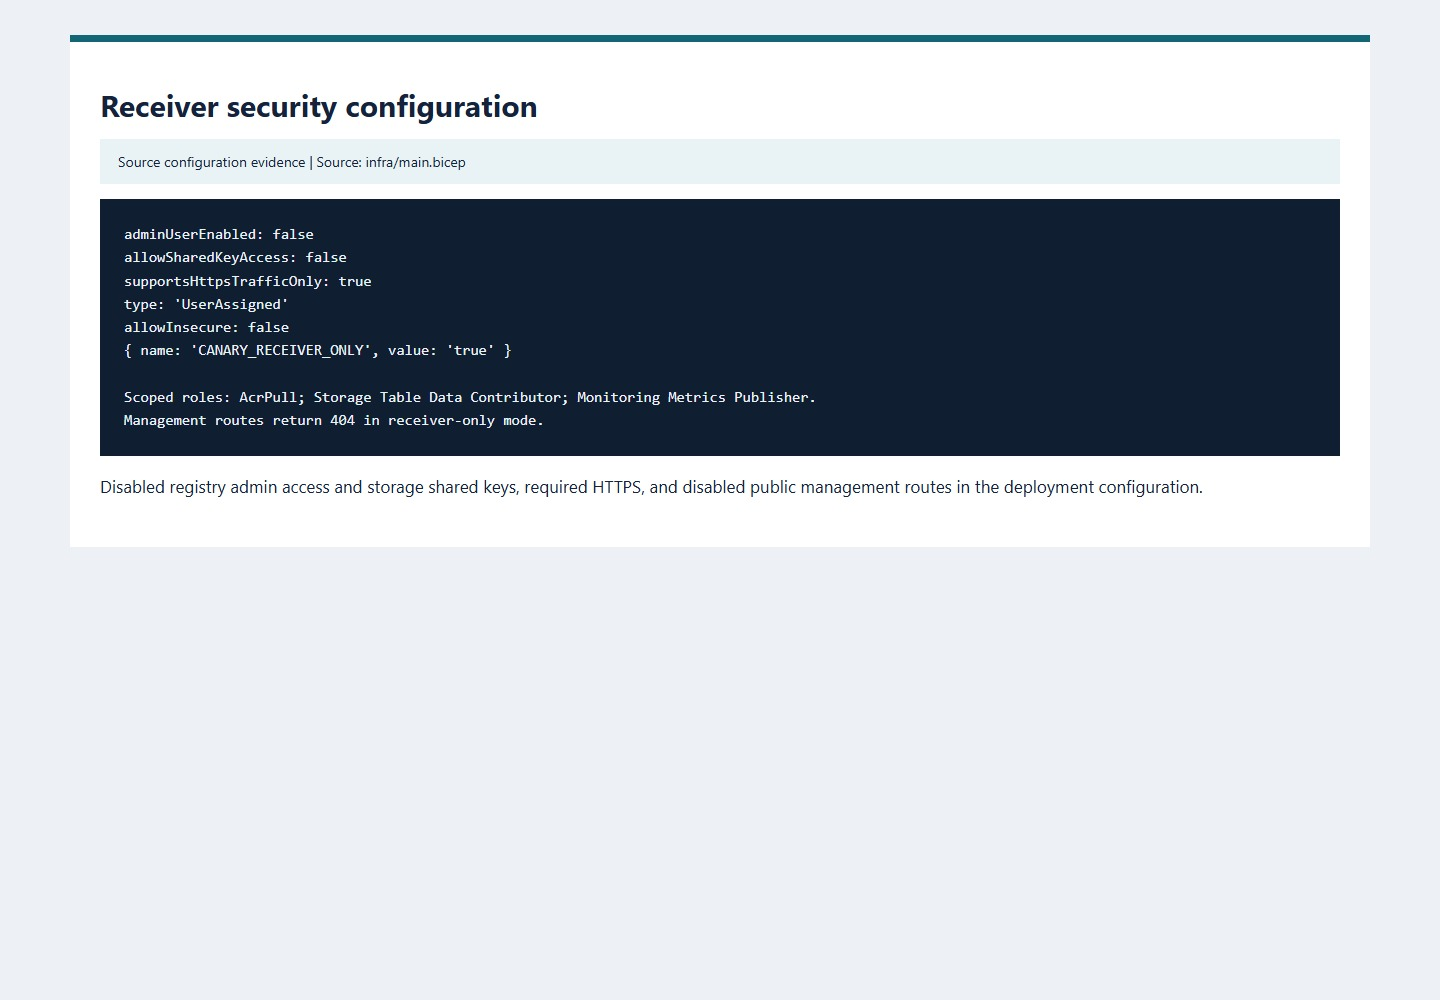
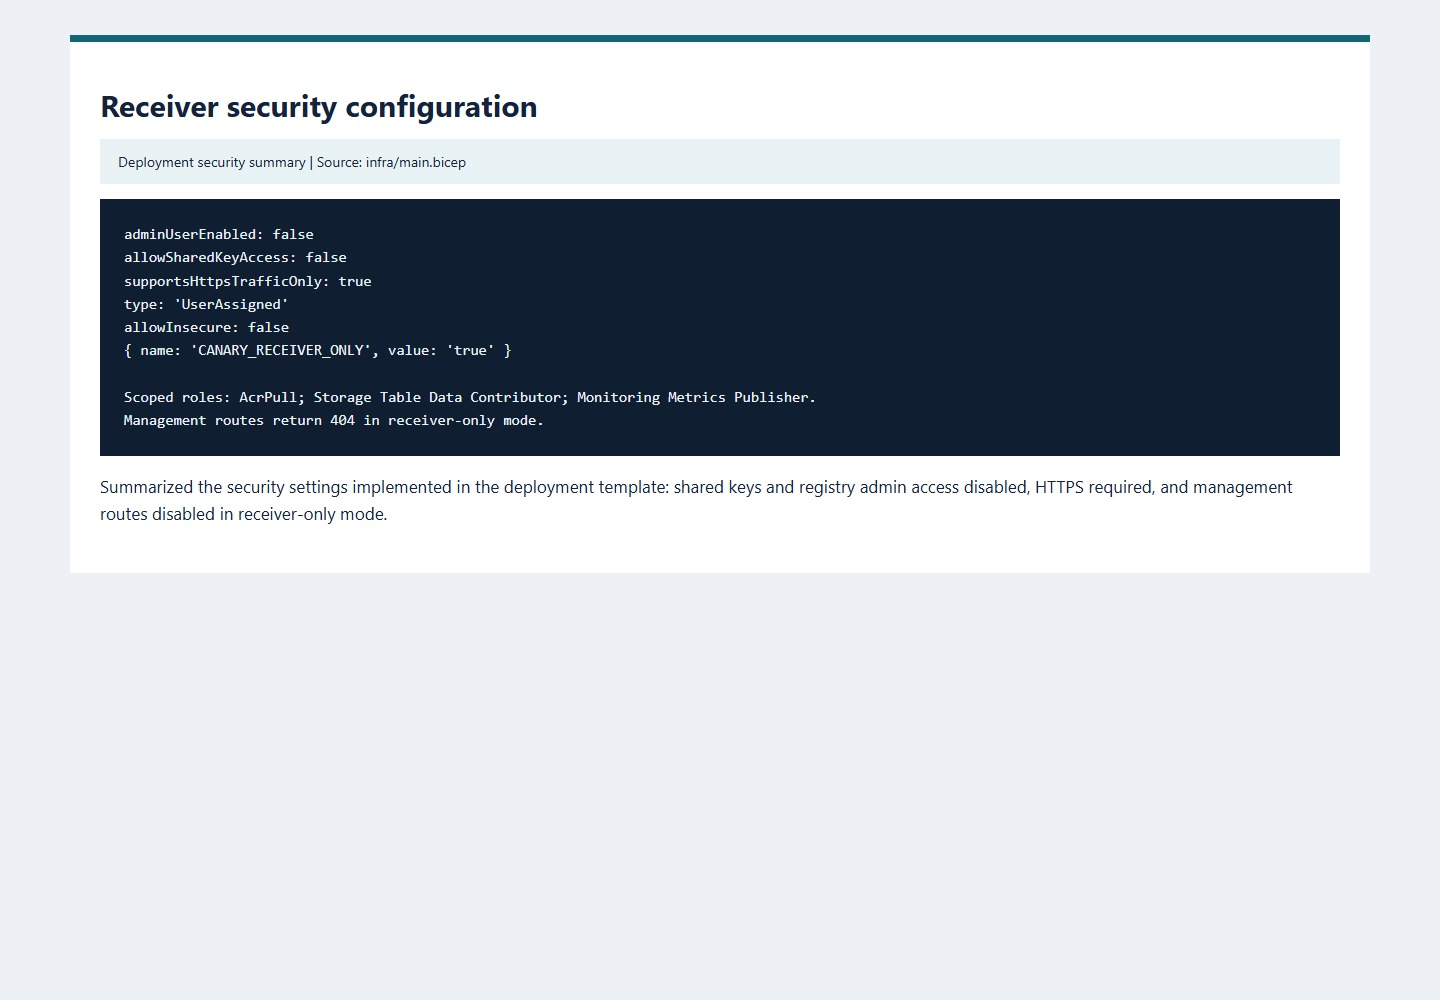
Clarify deployment security evidence source

Changed region(s): [[0.0625, 0.465, 0.9062, 0.527], [0.0938, 0.155, 0.2188, 0.186], [0.25, 0.155, 0.3125, 0.186]]

diff --git a/docs/evidence/public/index.html b/docs/evidence/public/index.html
@@ -1,1 +1,1 @@
-<!doctype html><html lang="en"><meta charset="utf-8"><meta name="viewport" content="width=device-width,initial-scale=1"><title>Honey Token - screenshot walkthrough</title><style>body{margin:0;background:#edf1f5;color:#14233b;font:17px/1.55 Segoe UI,Arial}main{max-width:1240px;margin:35px auto;padding:30px;background:white;border-top:7px solid #126675}h1{font-size:30px;margin:10px 0}.meta{padding:12px 18px;background:#e9f2f4;font-size:14px}pre{white-space:pre-wrap;overflow-wrap:anywhere;font:15px/1.55 Consolas,monospace;background:#101e32;color:#ebf3fa;padding:24px}a{color:#126675}img{max-width:100%;height:auto}article{margin:36px 0;padding-top:20px;border-top:1px solid #ccd5dc}</style><main><h1>Honey Token</h1><p>Project walkthrough recorded on 7 September 2026, covering setup, deployment, document retrieval, event triage, Sentinel ingestion, and tests. Word and GitHub images are application captures; Azure images use saved deployment responses and query results.</p><p>Account details, email addresses, source IPs, tenant/subscription identifiers, callback tokens, and resource endpoints are redacted or excluded. Raw records remain outside this package.</p><h2>Project walkthrough</h2><ol><li><a href="#step01">Purpose and architecture</a></li><li><a href="#step02">Starting state and baseline</a></li><li><a href="#step03">Infrastructure deployment</a></li><li><a href="#step04">Receiver security configuration</a></li><li><a href="#step05">Deployed receiver health</a></li><li><a href="#step06">Word renders the synthetic decoy</a></li><li><a href="#step07">Word callback and triage</a></li><li><a href="#step08">Persisted events and delivery outcomes</a></li><li><a href="#step09">Log Analytics ingestion</a></li><li><a href="#step10">Sentinel analytic rule</a></li><li><a href="#step11">Sentinel incident</a></li><li><a href="#step12">GitHub Actions test run</a></li><li><a href="#step13">Local regression and SMTP delivery</a></li><li><a href="#step14">Secret scanning</a></li><li><a href="#step15">Limitations and teardown status</a></li></ol><article id="step01"><h2>01. Purpose and architecture</h2><div class="meta">Design summary | Source: ARCHITECTURE.md</div><p>Extended the local document-token receiver with Azure Table Storage and Sentinel ingestion. Word and cloud callbacks were exercised separately.</p><a href="01-evidence.jpg"><img loading="lazy" src="01-evidence.jpg" alt="Purpose and architecture"></a></article><article id="step02"><h2>02. Starting state and baseline</h2><div class="meta">Archived record, captured 2026-09-07 | Source: 00-azure-start-state.json + docs/BASELINE.md</div><p>Recorded the local SQLite starting point and nine passing baseline tests before adding the Azure adapters.</p><a href="02-evidence.jpg"><img loading="lazy" src="02-evidence.jpg" alt="Starting state and baseline"></a></article><article id="step03"><h2>03. Infrastructure deployment</h2><div class="meta">Archived Azure deployment response | Source: 03-bicep-final-deployment.json</div><p>Deployed the Bicep resources successfully. Resource identifiers and endpoint values are omitted from the saved response.</p><a href="03-evidence.jpg"><img loading="lazy" src="03-evidence.jpg" alt="Infrastructure deployment"></a></article><article id="step04"><h2>04. Receiver security configuration</h2><div class="meta">Source configuration evidence | Source: infra/main.bicep</div><p>Disabled registry admin access and storage shared keys, required HTTPS, and disabled public management routes in the deployment configuration.</p><a href="04-evidence.jpg"><img loading="lazy" src="04-evidence.jpg" alt="Receiver security configuration"></a></article><article id="step05"><h2>05. Deployed receiver health</h2><div class="meta">Archived HTTP result | Source: 09-container-app-health.json</div><p>Requested the deployed health endpoint; it returned HTTP 200 with receiver-only mode and Azure Table Storage.</p><a href="05-evidence.jpg"><img loading="lazy" src="05-evidence.jpg" alt="Deployed receiver health"></a></article><article id="step06"><h2>06. Word renders the synthetic decoy</h2><div class="meta">Microsoft Word UI capture | Source: Word 16.0.20326.20132</div><p>Opened the generated synthetic document in Word. The local callback it produced is recorded in image 07.</p><a href="06-word-decoy.png"><img loading="lazy" src="06-word-decoy.png" alt="Word renders the synthetic decoy"></a></article><article id="step07"><h2>07. Word callback and triage</h2><div class="meta">Archived event from observed Word open | Source: word-viewer-result.json</div><p>Captured the Office User-Agent and high-severity event when Word requested the loopback pixel.</p><a href="07-evidence.jpg"><img loading="lazy" src="07-evidence.jpg" alt="Word callback and triage"></a></article><article id="step08"><h2>08. Persisted events and delivery outcomes</h2><div class="meta">Archived Azure Table query | Source: table-events-sanitized.json</div><p>Queried stored events and retained both successful delivery outcomes and the first failed ingestion attempt.</p><a href="08-evidence.jpg"><img loading="lazy" src="08-evidence.jpg" alt="Persisted events and delivery outcomes"></a></article><article id="step09"><h2>09. Log Analytics ingestion</h2><div class="meta">Archived CanaryHit_CL query | Source: log-analytics-latest.json</div><p>Queried four ingested records, including a scanner classification and a suppressed repeat notification.</p><a href="09-evidence.jpg"><img loading="lazy" src="09-evidence.jpg" alt="Log Analytics ingestion"></a></article><article id="step10"><h2>10. Sentinel analytic rule</h2><div class="meta">Archived rule configuration | Source: sentinel-rule.json</div><p>Deployed a five-minute Sentinel rule with a ten-minute lookback and incident creation enabled. The query selected all callback rows; scanner and repeat rows were included.</p><a href="10-evidence.jpg"><img loading="lazy" src="10-evidence.jpg" alt="Sentinel analytic rule"></a></article><article id="step11"><h2>11. Sentinel incident</h2><div class="meta">Archived Sentinel incident response | Source: sentinel-incidents.json</div><p>Recorded the resulting high-severity Sentinel incident. Account and resource identifiers are omitted.</p><a href="11-evidence.jpg"><img loading="lazy" src="11-evidence.jpg" alt="Sentinel incident"></a></article><article id="step12"><h2>12. GitHub Actions test run</h2><div class="meta">GitHub UI capture | Source: Job 101836165394 in Actions run 34152044446</div><p>The main-branch Actions test job completed successfully and recorded 16 passing tests.</p><a href="12-github-pytest-output.jpg"><img loading="lazy" src="12-github-pytest-output.jpg" alt="GitHub Actions test run"></a></article><article id="step13"><h2>13. Local regression and SMTP delivery</h2><div class="meta">Recorded test output | Source: tests/test_smtp_delivery.py + portfolio/pytest.txt</div><p>The integration test opened a real loopback SMTP connection, sent one DATA message after two callbacks, and confirmed two persisted events with sent/suppressed alert states. SMTP identities and callback tokens are redacted from the public record.</p><a href="13-evidence.jpg"><img loading="lazy" src="13-evidence.jpg" alt="Local regression and SMTP delivery"></a></article><article id="step14"><h2>14. Secret scanning</h2><div class="meta">Gitleaks output | Source: portfolio/gitleaks.txt</div><p>Scanned the tracked history with Gitleaks; the recorded scan found no secrets.</p><a href="14-evidence.jpg"><img loading="lazy" src="14-evidence.jpg" alt="Secret scanning"></a></article><article id="step15"><h2>15. Limitations and teardown status</h2><div class="meta">Operational notes | Source: LIMITATIONS.md + COST_AND_TEARDOWN.md</div><p>Recorded the resource state at the end of the run. The cleanup command and operational constraints are documented separately.</p><a href="15-evidence.jpg"><img loading="lazy" src="15-evidence.jpg" alt="Limitations and teardown status"></a></article></main></html>
+<!doctype html><html lang="en"><meta charset="utf-8"><meta name="viewport" content="width=device-width,initial-scale=1"><title>Honey Token - screenshot walkthrough</title><style>body{margin:0;background:#edf1f5;color:#14233b;font:17px/1.55 Segoe UI,Arial}main{max-width:1240px;margin:35px auto;padding:30px;background:white;border-top:7px solid #126675}h1{font-size:30px;margin:10px 0}.meta{padding:12px 18px;background:#e9f2f4;font-size:14px}pre{white-space:pre-wrap;overflow-wrap:anywhere;font:15px/1.55 Consolas,monospace;background:#101e32;color:#ebf3fa;padding:24px}a{color:#126675}img{max-width:100%;height:auto}article{margin:36px 0;padding-top:20px;border-top:1px solid #ccd5dc}</style><main><h1>Honey Token</h1><p>Project walkthrough recorded on 7 September 2026, covering setup, deployment, document retrieval, event triage, Sentinel ingestion, and tests. Word and GitHub images are application captures; Azure images use saved deployment responses and query results.</p><p>Account details, email addresses, source IPs, tenant/subscription identifiers, callback tokens, and resource endpoints are redacted or excluded. Raw records remain outside this package.</p><h2>Project walkthrough</h2><ol><li><a href="#step01">Purpose and architecture</a></li><li><a href="#step02">Starting state and baseline</a></li><li><a href="#step03">Infrastructure deployment</a></li><li><a href="#step04">Receiver security configuration</a></li><li><a href="#step05">Deployed receiver health</a></li><li><a href="#step06">Word renders the synthetic decoy</a></li><li><a href="#step07">Word callback and triage</a></li><li><a href="#step08">Persisted events and delivery outcomes</a></li><li><a href="#step09">Log Analytics ingestion</a></li><li><a href="#step10">Sentinel analytic rule</a></li><li><a href="#step11">Sentinel incident</a></li><li><a href="#step12">GitHub Actions test run</a></li><li><a href="#step13">Local regression and SMTP delivery</a></li><li><a href="#step14">Secret scanning</a></li><li><a href="#step15">Limitations and teardown status</a></li></ol><article id="step01"><h2>01. Purpose and architecture</h2><div class="meta">Design summary | Source: ARCHITECTURE.md</div><p>Extended the local document-token receiver with Azure Table Storage and Sentinel ingestion. Word and cloud callbacks were exercised separately.</p><a href="01-evidence.jpg"><img loading="lazy" src="01-evidence.jpg" alt="Purpose and architecture"></a></article><article id="step02"><h2>02. Starting state and baseline</h2><div class="meta">Archived record, captured 2026-09-07 | Source: 00-azure-start-state.json + docs/BASELINE.md</div><p>Recorded the local SQLite starting point and nine passing baseline tests before adding the Azure adapters.</p><a href="02-evidence.jpg"><img loading="lazy" src="02-evidence.jpg" alt="Starting state and baseline"></a></article><article id="step03"><h2>03. Infrastructure deployment</h2><div class="meta">Archived Azure deployment response | Source: 03-bicep-final-deployment.json</div><p>Deployed the Bicep resources successfully. Resource identifiers and endpoint values are omitted from the saved response.</p><a href="03-evidence.jpg"><img loading="lazy" src="03-evidence.jpg" alt="Infrastructure deployment"></a></article><article id="step04"><h2>04. Receiver security configuration</h2><div class="meta">Deployment security summary | Source: infra/main.bicep</div><p>Summarized the security settings implemented in the deployment template: shared keys and registry admin access disabled, HTTPS required, and management routes disabled in receiver-only mode.</p><a href="04-evidence.jpg"><img loading="lazy" src="04-evidence.jpg" alt="Receiver security configuration"></a></article><article id="step05"><h2>05. Deployed receiver health</h2><div class="meta">Archived HTTP result | Source: 09-container-app-health.json</div><p>Requested the deployed health endpoint; it returned HTTP 200 with receiver-only mode and Azure Table Storage.</p><a href="05-evidence.jpg"><img loading="lazy" src="05-evidence.jpg" alt="Deployed receiver health"></a></article><article id="step06"><h2>06. Word renders the synthetic decoy</h2><div class="meta">Microsoft Word UI capture | Source: Word 16.0.20326.20132</div><p>Opened the generated synthetic document in Word. The local callback it produced is recorded in image 07.</p><a href="06-word-decoy.png"><img loading="lazy" src="06-word-decoy.png" alt="Word renders the synthetic decoy"></a></article><article id="step07"><h2>07. Word callback and triage</h2><div class="meta">Archived event from observed Word open | Source: word-viewer-result.json</div><p>Captured the Office User-Agent and high-severity event when Word requested the loopback pixel.</p><a href="07-evidence.jpg"><img loading="lazy" src="07-evidence.jpg" alt="Word callback and triage"></a></article><article id="step08"><h2>08. Persisted events and delivery outcomes</h2><div class="meta">Archived Azure Table query | Source: table-events-sanitized.json</div><p>Queried stored events and retained both successful delivery outcomes and the first failed ingestion attempt.</p><a href="08-evidence.jpg"><img loading="lazy" src="08-evidence.jpg" alt="Persisted events and delivery outcomes"></a></article><article id="step09"><h2>09. Log Analytics ingestion</h2><div class="meta">Archived CanaryHit_CL query | Source: log-analytics-latest.json</div><p>Queried four ingested records, including a scanner classification and a suppressed repeat notification.</p><a href="09-evidence.jpg"><img loading="lazy" src="09-evidence.jpg" alt="Log Analytics ingestion"></a></article><article id="step10"><h2>10. Sentinel analytic rule</h2><div class="meta">Archived rule configuration | Source: sentinel-rule.json</div><p>Deployed a five-minute Sentinel rule with a ten-minute lookback and incident creation enabled. The query selected all callback rows; scanner and repeat rows were included.</p><a href="10-evidence.jpg"><img loading="lazy" src="10-evidence.jpg" alt="Sentinel analytic rule"></a></article><article id="step11"><h2>11. Sentinel incident</h2><div class="meta">Archived Sentinel incident response | Source: sentinel-incidents.json</div><p>Recorded the resulting high-severity Sentinel incident. Account and resource identifiers are omitted.</p><a href="11-evidence.jpg"><img loading="lazy" src="11-evidence.jpg" alt="Sentinel incident"></a></article><article id="step12"><h2>12. GitHub Actions test run</h2><div class="meta">GitHub UI capture | Source: Job 101836165394 in Actions run 34152044446</div><p>The main-branch Actions test job completed successfully and recorded 16 passing tests.</p><a href="12-github-pytest-output.jpg"><img loading="lazy" src="12-github-pytest-output.jpg" alt="GitHub Actions test run"></a></article><article id="step13"><h2>13. Local regression and SMTP delivery</h2><div class="meta">Recorded test output | Source: tests/test_smtp_delivery.py + portfolio/pytest.txt</div><p>The integration test opened a real loopback SMTP connection, sent one DATA message after two callbacks, and confirmed two persisted events with sent/suppressed alert states. SMTP identities and callback tokens are redacted from the public record.</p><a href="13-evidence.jpg"><img loading="lazy" src="13-evidence.jpg" alt="Local regression and SMTP delivery"></a></article><article id="step14"><h2>14. Secret scanning</h2><div class="meta">Gitleaks output | Source: portfolio/gitleaks.txt</div><p>Scanned the tracked history with Gitleaks; the recorded scan found no secrets.</p><a href="14-evidence.jpg"><img loading="lazy" src="14-evidence.jpg" alt="Secret scanning"></a></article><article id="step15"><h2>15. Limitations and teardown status</h2><div class="meta">Operational notes | Source: LIMITATIONS.md + COST_AND_TEARDOWN.md</div><p>Recorded the resource state at the end of the run. The cleanup command and operational constraints are documented separately.</p><a href="15-evidence.jpg"><img loading="lazy" src="15-evidence.jpg" alt="Limitations and teardown status"></a></article></main></html>

diff --git a/docs/evidence/public/04-evidence.html b/docs/evidence/public/04-evidence.html
@@ -1,4 +1,4 @@
-<!doctype html><html lang="en"><meta charset="utf-8"><title>Receiver security configuration</title><style>body{margin:0;background:#edf1f5;color:#14233b;font:17px/1.55 Segoe UI,Arial}main{max-width:1240px;margin:35px auto;padding:30px;background:white;border-top:7px solid #126675}h1{font-size:30px;margin:10px 0}.meta{padding:12px 18px;background:#e9f2f4;font-size:14px}pre{white-space:pre-wrap;overflow-wrap:anywhere;font:15px/1.55 Consolas,monospace;background:#101e32;color:#ebf3fa;padding:24px}a{color:#126675}img{max-width:100%;height:auto}article{margin:36px 0;padding-top:20px;border-top:1px solid #ccd5dc}</style><main><h1>Receiver security configuration</h1><div class="meta">Source configuration evidence | Source: infra/main.bicep</div><pre>adminUserEnabled: false
+<!doctype html><html lang="en"><meta charset="utf-8"><title>Receiver security configuration</title><style>body{margin:0;background:#edf1f5;color:#14233b;font:17px/1.55 Segoe UI,Arial}main{max-width:1240px;margin:35px auto;padding:30px;background:white;border-top:7px solid #126675}h1{font-size:30px;margin:10px 0}.meta{padding:12px 18px;background:#e9f2f4;font-size:14px}pre{white-space:pre-wrap;overflow-wrap:anywhere;font:15px/1.55 Consolas,monospace;background:#101e32;color:#ebf3fa;padding:24px}a{color:#126675}img{max-width:100%;height:auto}article{margin:36px 0;padding-top:20px;border-top:1px solid #ccd5dc}</style><main><h1>Receiver security configuration</h1><div class="meta">Deployment security summary | Source: infra/main.bicep</div><pre>adminUserEnabled: false
 allowSharedKeyAccess: false
 supportsHttpsTrafficOnly: true
 type: &#x27;UserAssigned&#x27;
@@ -6,4 +6,4 @@ allowInsecure: false
 { name: &#x27;CANARY_RECEIVER_ONLY&#x27;, value: &#x27;true&#x27; }
 
 Scoped roles: AcrPull; Storage Table Data Contributor; Monitoring Metrics Publisher.
-Management routes return 404 in receiver-only mode.</pre><p>Disabled registry admin access and storage shared keys, required HTTPS, and disabled public management routes in the deployment configuration.</p></main></html>
+Management routes return 404 in receiver-only mode.</pre><p>Summarized the security settings implemented in the deployment template: shared keys and registry admin access disabled, HTTPS required, and management routes disabled in receiver-only mode.</p></main></html>

diff --git a/docs/evidence/public/README.md b/docs/evidence/public/README.md
@@ -36,9 +36,9 @@ Deployed the Bicep resources successfully. Resource identifiers and endpoint val
 
 ## 04. Receiver security configuration
 
-**Source configuration evidence** - Source: `infra/main.bicep`.
+**Deployment security summary** - Source: `infra/main.bicep`.
 
-Disabled registry admin access and storage shared keys, required HTTPS, and disabled public management routes in the deployment configuration.
+Summarized the security settings implemented in the deployment template: shared keys and registry admin access disabled, HTTPS required, and management routes disabled in receiver-only mode.
 
 ![Receiver security configuration](04-evidence.jpg)
 
